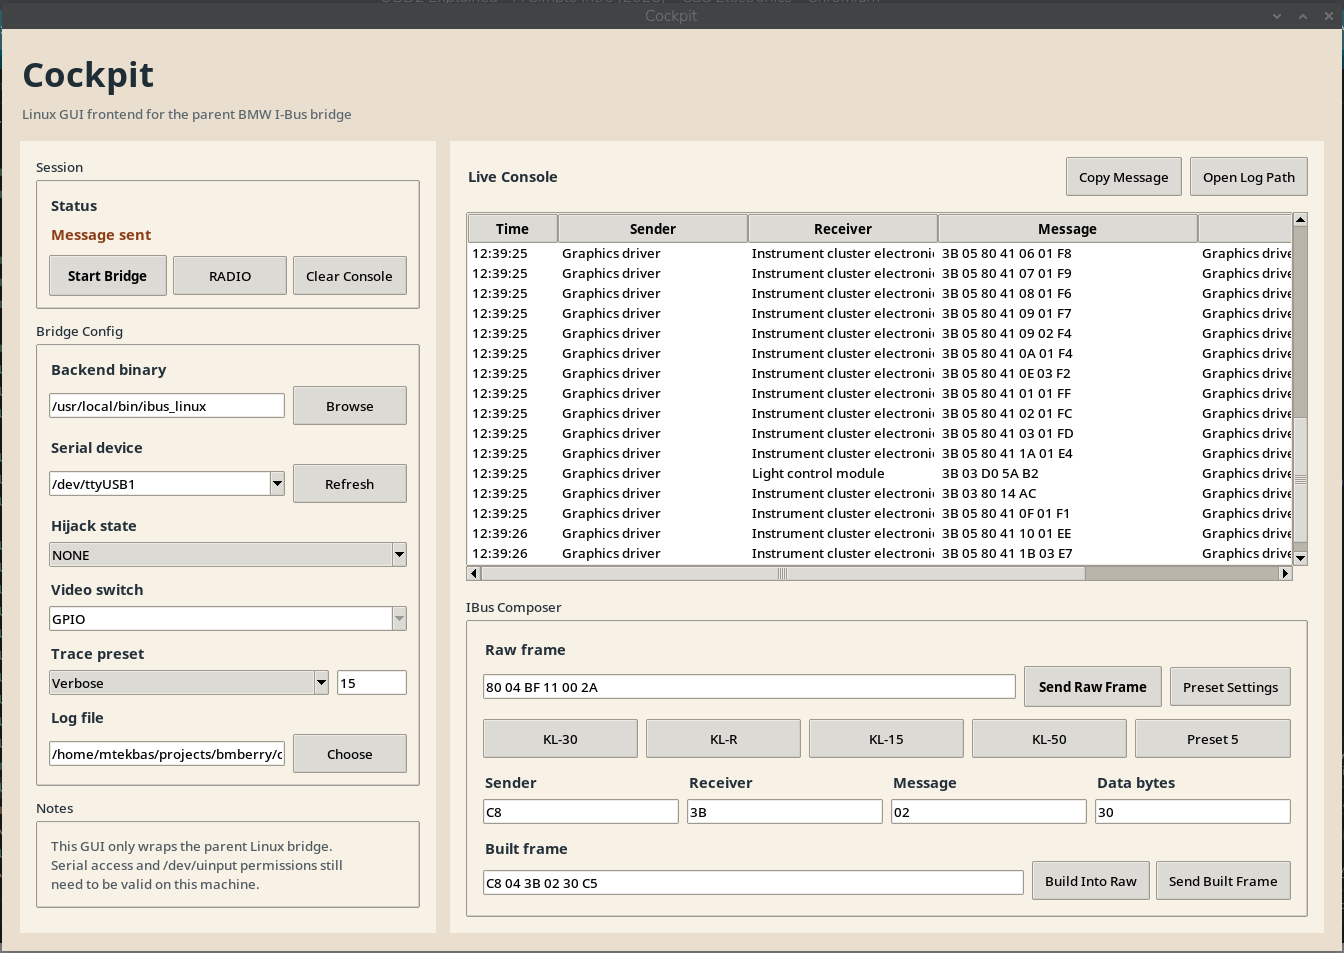
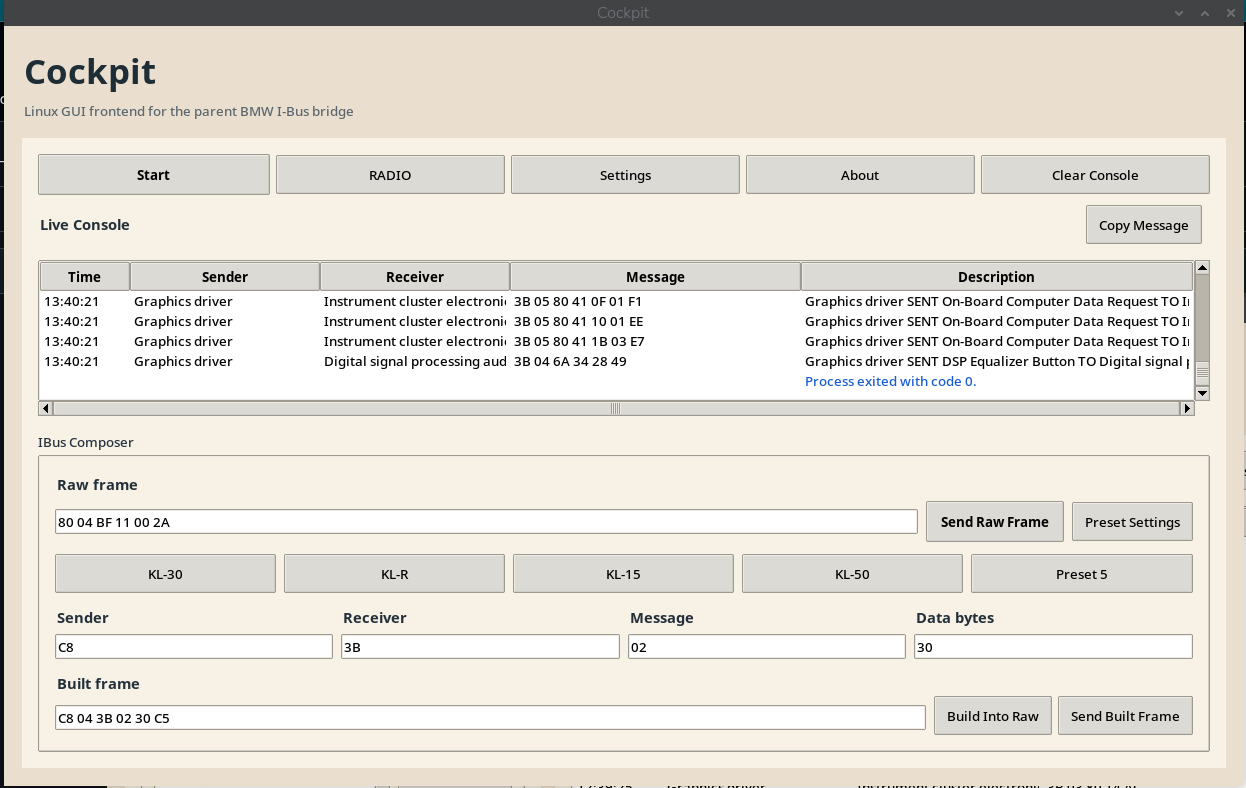
Update Cockpit screenshots

diff --git a/cockpit/README.md b/cockpit/README.md
@@ -21,6 +21,16 @@ It does not modify the parent project. It only:
 - Local config persistence in `config.json`
 - Default log file in `$HOME/.config/cockpit/ibus.log`
 
+## Screenshots
+
+Main screen:
+
+![Cockpit main screen](screenshots/main_screen.png)
+
+Settings:
+
+![Cockpit settings](screenshots/settings.png)
+
 ## Run
 
 Install GUI-designer dependencies once if the local `.venv` is missing packages:
